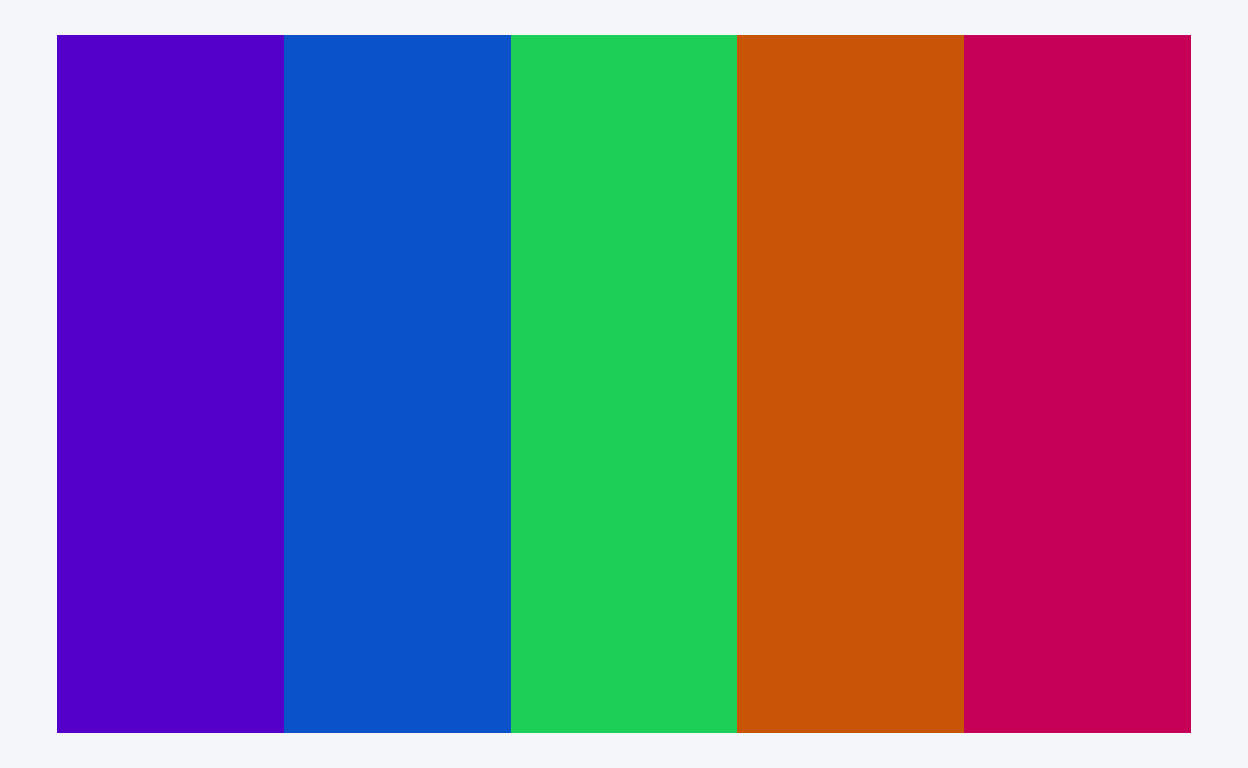
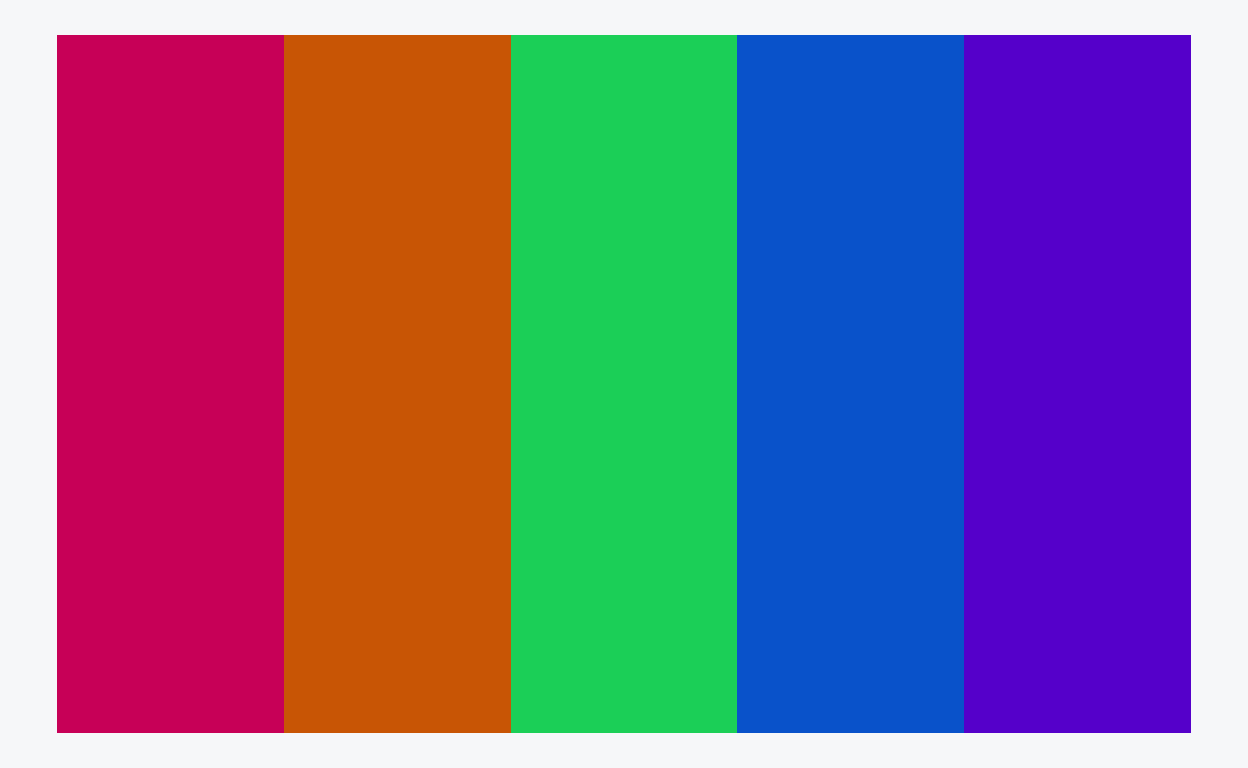
try rerunning plot

diff --git a/_site/posts/2021-05-26_custom-highlighting-distill-2/index.html b/_site/posts/2021-05-26_custom-highlighting-distill-2/index.html
@@ -1188,7 +1188,7 @@ window.document.addEventListener("DOMContentLoaded", function (event) {
 <span id="cb6-156"><a href="#cb6-156" aria-hidden="true" tabindex="-1"></a><span class="fu">library</span>(ggplot2)</span>
 <span id="cb6-157"><a href="#cb6-157" aria-hidden="true" tabindex="-1"></a></span>
 <span id="cb6-158"><a href="#cb6-158" aria-hidden="true" tabindex="-1"></a><span class="fu">ggplot</span>() <span class="sc">+</span></span>
-<span id="cb6-159"><a href="#cb6-159" aria-hidden="true" tabindex="-1"></a>  <span class="fu">geom_tile</span>(<span class="fu">aes</span>(<span class="at">x=</span><span class="dv">1</span><span class="sc">:</span><span class="dv">5</span>, <span class="at">y =</span> <span class="fu">rep</span>(<span class="dv">1</span>,<span class="dv">5</span>)), <span class="at">fill =</span> <span class="fu">rev</span>(ek_pure_highlight_colours)) <span class="sc">+</span></span>
+<span id="cb6-159"><a href="#cb6-159" aria-hidden="true" tabindex="-1"></a>  <span class="fu">geom_tile</span>(<span class="fu">aes</span>(<span class="at">x=</span><span class="dv">1</span><span class="sc">:</span><span class="dv">5</span>, <span class="at">y =</span> <span class="fu">rep</span>(<span class="dv">1</span>,<span class="dv">5</span>)), <span class="at">fill =</span> ek_pure_highlight_colours) <span class="sc">+</span></span>
 <span id="cb6-160"><a href="#cb6-160" aria-hidden="true" tabindex="-1"></a>  <span class="fu">theme_void</span>() <span class="sc">+</span></span>
 <span id="cb6-161"><a href="#cb6-161" aria-hidden="true" tabindex="-1"></a>  <span class="co">#theme(plot.background = element_rect(fill='transparent', color=NA))</span></span>
 <span id="cb6-162"><a href="#cb6-162" aria-hidden="true" tabindex="-1"></a>  <span class="fu">theme</span>(<span class="at">plot.background =</span> <span class="fu">element_rect</span>(<span class="at">fill=</span><span class="st">"#F8F9FA"</span>, <span class="at">color =</span> <span class="st">"#F8F9FA"</span>))</span>

diff --git a/_site/posts.html b/_site/posts.html
@@ -177,7 +177,7 @@ ga('send', {
 
 <div class="quarto-listing quarto-listing-container-default" id="listing-listing">
 <div class="list quarto-listing-default">
-<div class="quarto-post image-right" data-index="0" data-categories="distill,colour,accessibility,R" data-listing-date-sort="1621983600000" data-listing-file-modified-sort="1666542990378" data-listing-reading-time-sort="26.69">
+<div class="quarto-post image-right" data-index="0" data-categories="distill,colour,accessibility,R" data-listing-date-sort="1621983600000" data-listing-file-modified-sort="1666543436579" data-listing-reading-time-sort="26.69">
 <div class="thumbnail">
 <p><a href="./posts/2021-05-26_custom-highlighting-distill-2/index.html"> <img src="./posts/2021-05-26_custom-highlighting-distill-2/ek-syntax-highlighting-palette.png" class="thumnail-image" alt="A swatch of five colours, a pink, orange, green, blue and purple, all quite bright, but still all with a contrast ratio of 4.5:1 or better against white.
 "> </a></p>
